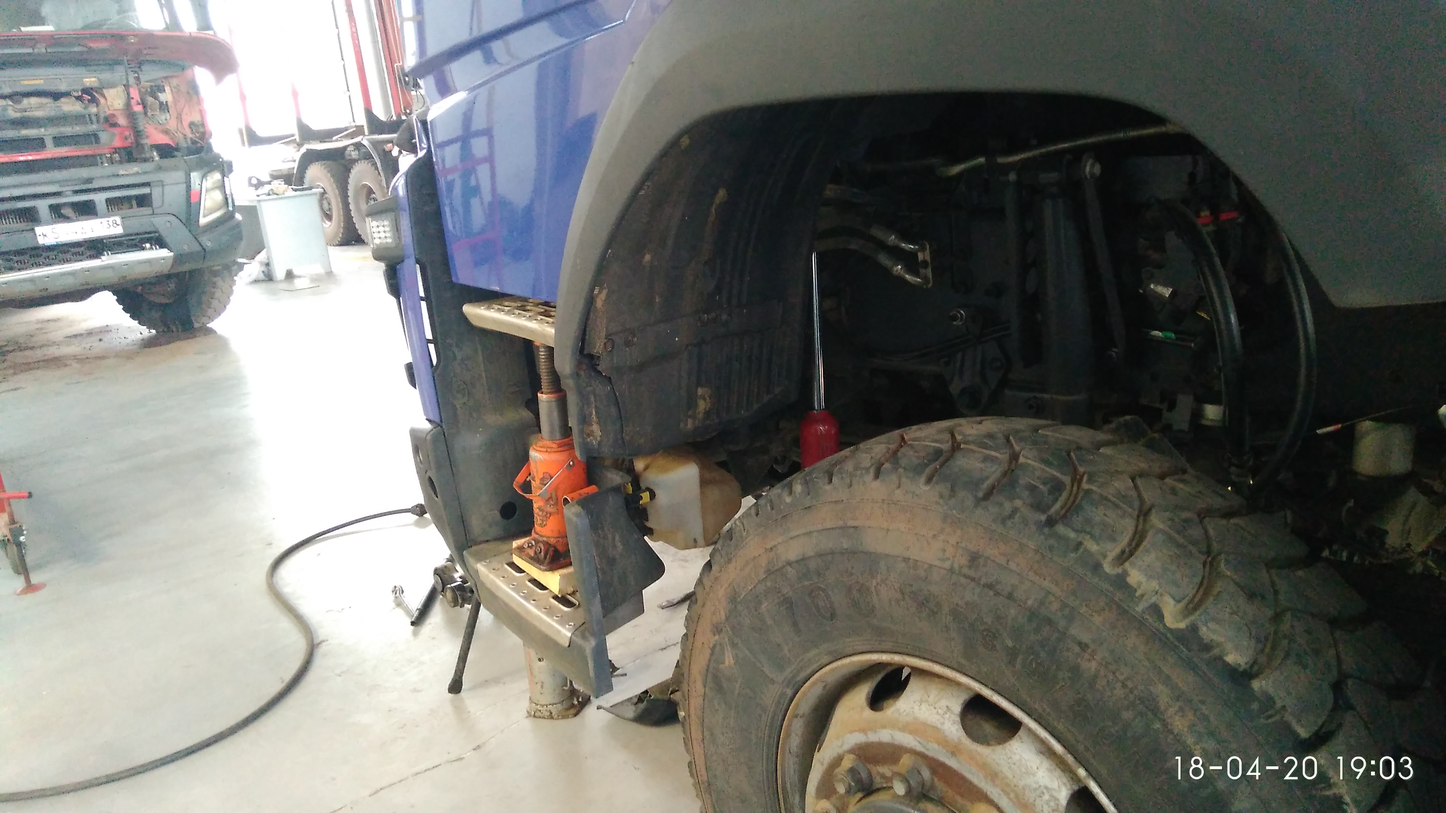
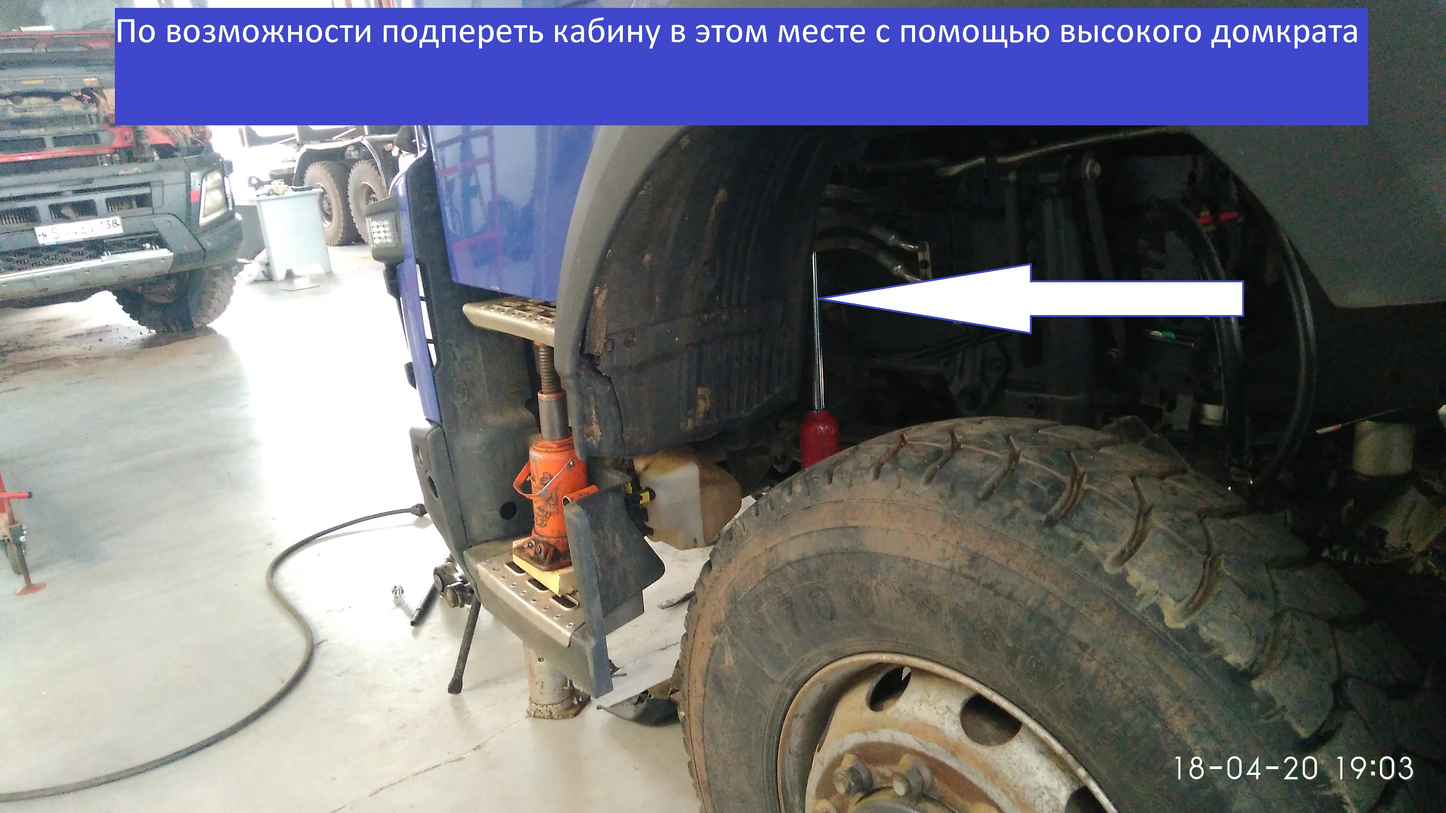
stab.html 200420

Changed region(s): [[0.0625, 0.0, 0.9688, 0.1551], [0.5625, 0.3102, 0.875, 0.4343]]

diff --git a/stab.html b/stab.html
@@ -227,8 +227,6 @@
                         головкой, то нужно снять головку, повернуть на одну грань и одеть снова на вороток.</span>
                     <br>
                 </ol>
-                <h1>Если нет возможности вывесить кабину</h1>
-
                 <h3>Полезные ссылки по теме:</h3>
 
                 <section class="gallery">
@@ -262,30 +260,57 @@
                     <div class="pic">
                         <img src="img/content/cabin/stab_11.jpg" alt="">
                     </div>
-                    <div class="pic">
-                        <img src="img/content/cabin/stab_06.jpg" alt="">
-                    </div>
-                    <div class="pic">
-                        <img src="img/content/cabin/stab_09.jpg" alt="">
-                    </div>
-                    <div class="pic">
-                        <img src="img/content/cabin/stab_03.jpg" alt="">
-                    </div>
+                    <h1>Если нет возможности вывесить кабину</h1>
+                    <h3>Порядок действий:</h3>
+                    <p>Порядок действий такой же как при выполнении ремонта с кран балкой. Но перед разборкой важно выставить кабину 
+                        определённым образом, что бы снять нагрузку с демонтируемых деталей.
+                    </p>
+                       <p>Для этого:</p>
+                <ol class="rounded">
+                    <li>Поставить противооткаты</li>
+                    <li>Поднять кабину.</li>
+                    <li>Открутить подушки с 2-х сторон кабины. <a href="#04_b">Смотреть картинку. </a> Можно не до конца, а только ослабить винты. Использовать
+                        шестигранник. Если этого
+                        не сделать, то потом сложно будет это сделать с передней стороны кабины. Не хватит усилия чтобы
+                        сорвать винты из-за ограниченного доступа.
+                    </li>
+                    <li>Опустить кабину.</li>
+                    <li>Немного поднять кабину. Что бы только вышла из замков на задних амортизаторах.</li>
+                    <li>Установить домкраты на ступеньки. <a href="#01_b">Смотреть картинку. </a> <b style="color: red;"> <br>  Осторожнее с этими домкратами, чтобы не сломать ступеньки. Впервую очередь 
+                    снимать нагрузку нужно с этих домкратов, и только потом с остальных.</b></li>
+                    <li>Установить домкрат под заднюю часть кабины, что бы кабина не ушла назад. <a href="#02_b">Смотреть картинку </a></li>
+                    <li>Если есть возможность можно подпереть домкратом кабину ещё в какой нибудь точке. <a href="#03_b">Смотреть картинку </a></li>
+                     <li>Что бы вытащить болт крепления стабилизатора кабины, нужно играть по высоте домкратами установленными на ступеньках.
+                        <a href="#05_b">Смотреть картинку </a>
+                     </li>
+                     <li>Если есть возможность можно подпереть домкратом кабину ещё в какой нибудь точке. <a href="#03_b">Смотреть картинку </a></li>
+                     <li>Что бы снять нагрузку с передних амортизаторов кабины и вытащить болт крепления амортизаторов, нужно установить 
+                         на них стяжки пружин.
+                        <a href="#06_b">Смотреть картинку </a>
+                     </li>
 
+                </ol>
+                <div class="pic">
+                    <img src="img/content/cabin/stab_26.jpg" id = "04_b" alt="">
+                </div>
+                <div class="pic">
+                    <img src="img/content/cabin/stab_22.jpg" id = "01_b" alt="">
+                </div>
+                <div class="pic">
+                    <img src="img/content/cabin/stab_23.jpg" alt="домкрат">
+                </div>
                     <div class="pic">
-                        <img src="img/content/cabin/stab_21.jpg" alt="">
+                        <img src="img/content/cabin/stab_21.jpg" id = "02_b" alt="домкрат">
+                    </div>
+                  
+                    <div class="pic">
+                        <img src="img/content/cabin/stab_24.jpg" id = "03_b" alt="домкрат">
                     </div>
                     <div class="pic">
-                        <img src="img/content/cabin/stab_22.jpg" alt="">
+                        <img src="img/content/cabin/stab_25.jpg" id = "05_b" alt="домкрат">
                     </div>
                     <div class="pic">
-                        <img src="img/content/cabin/stab_23.jpg" alt="">
-                    </div>
-                    <div class="pic">
-                        <img src="img/content/cabin/stab_24.jpg" alt="">
-                    </div>
-                    <div class="pic">
-                        <img src="img/content/cabin/stab_25.jpg" alt="">
+                        <img src="img/content/cabin/stab_27.jpg" id = "06_b" alt="стяжки">
                     </div>
                 </section>
             </div>
